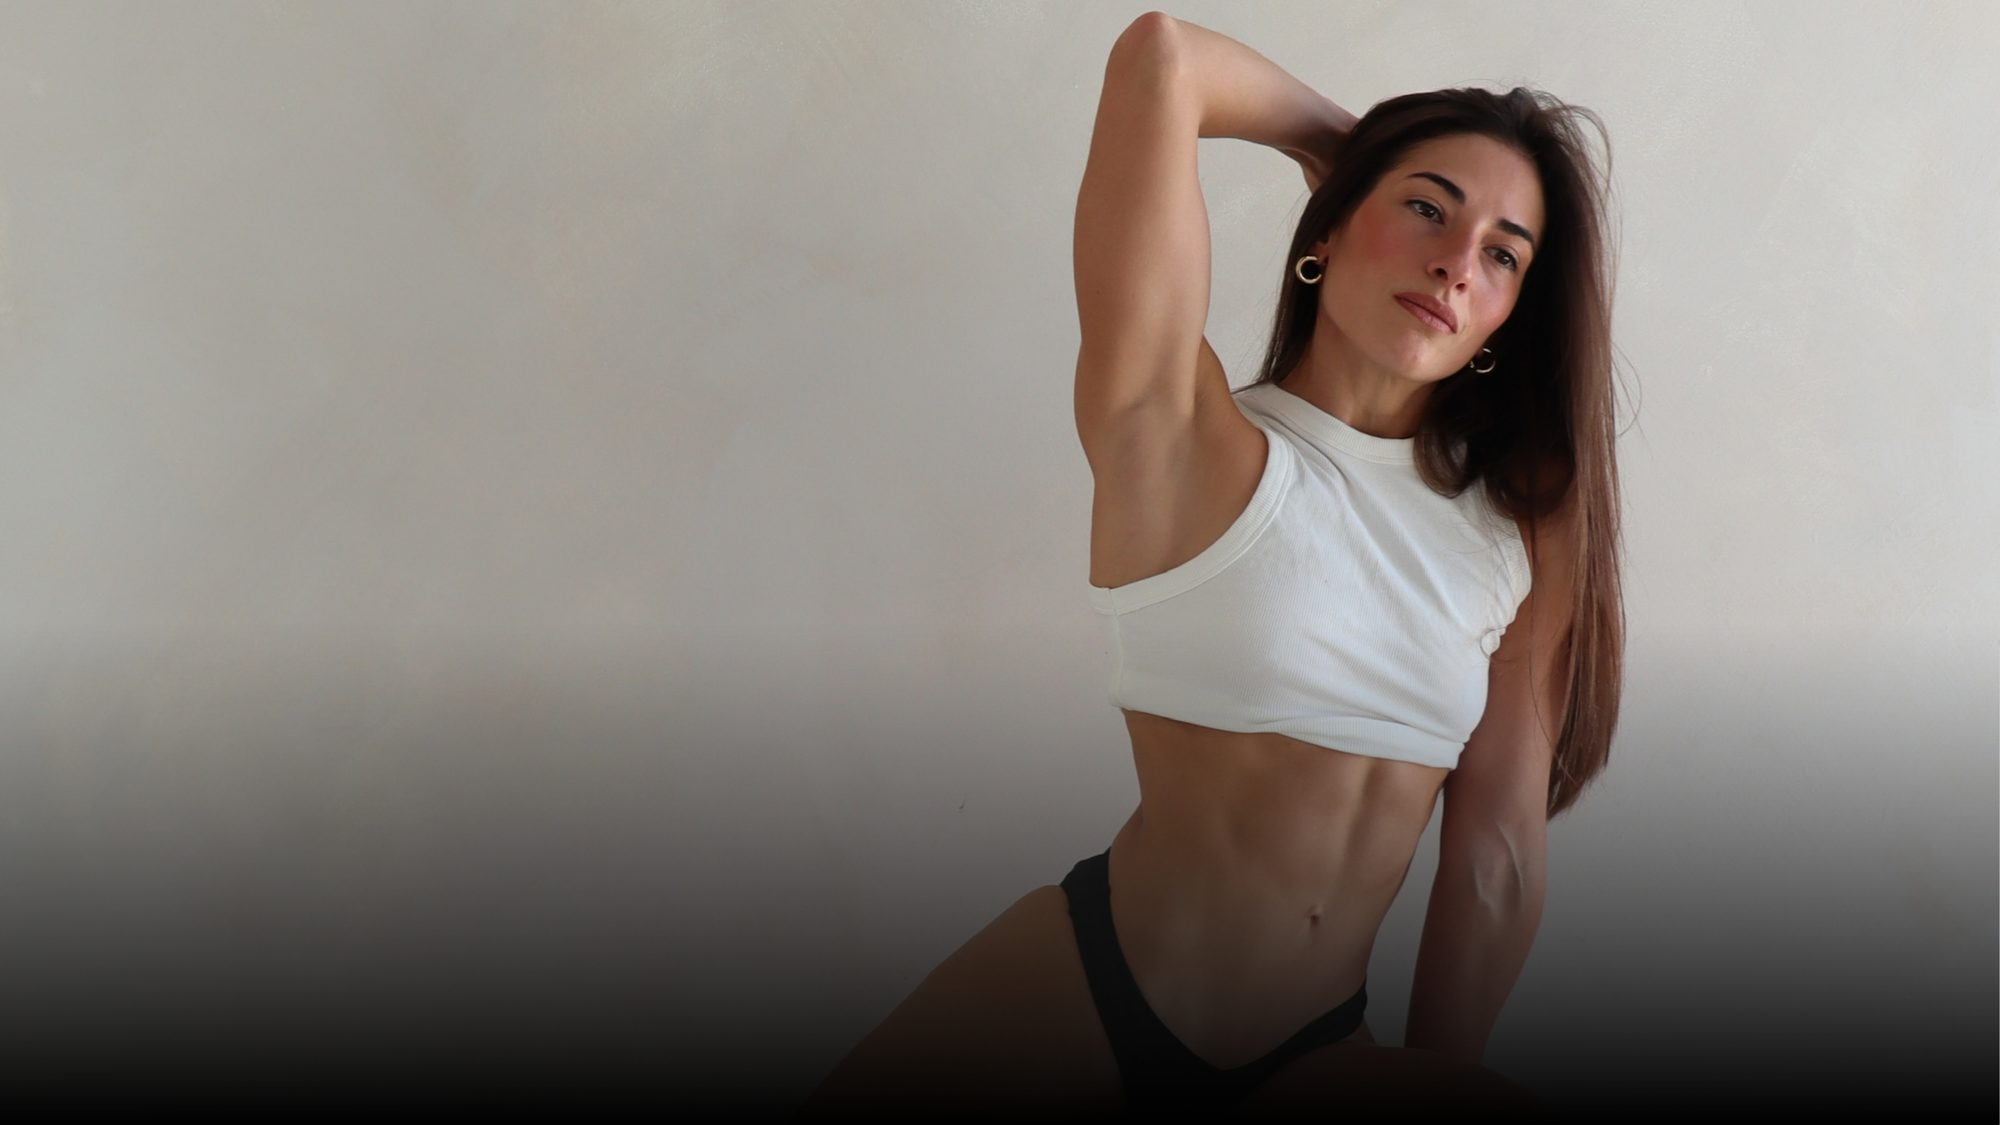
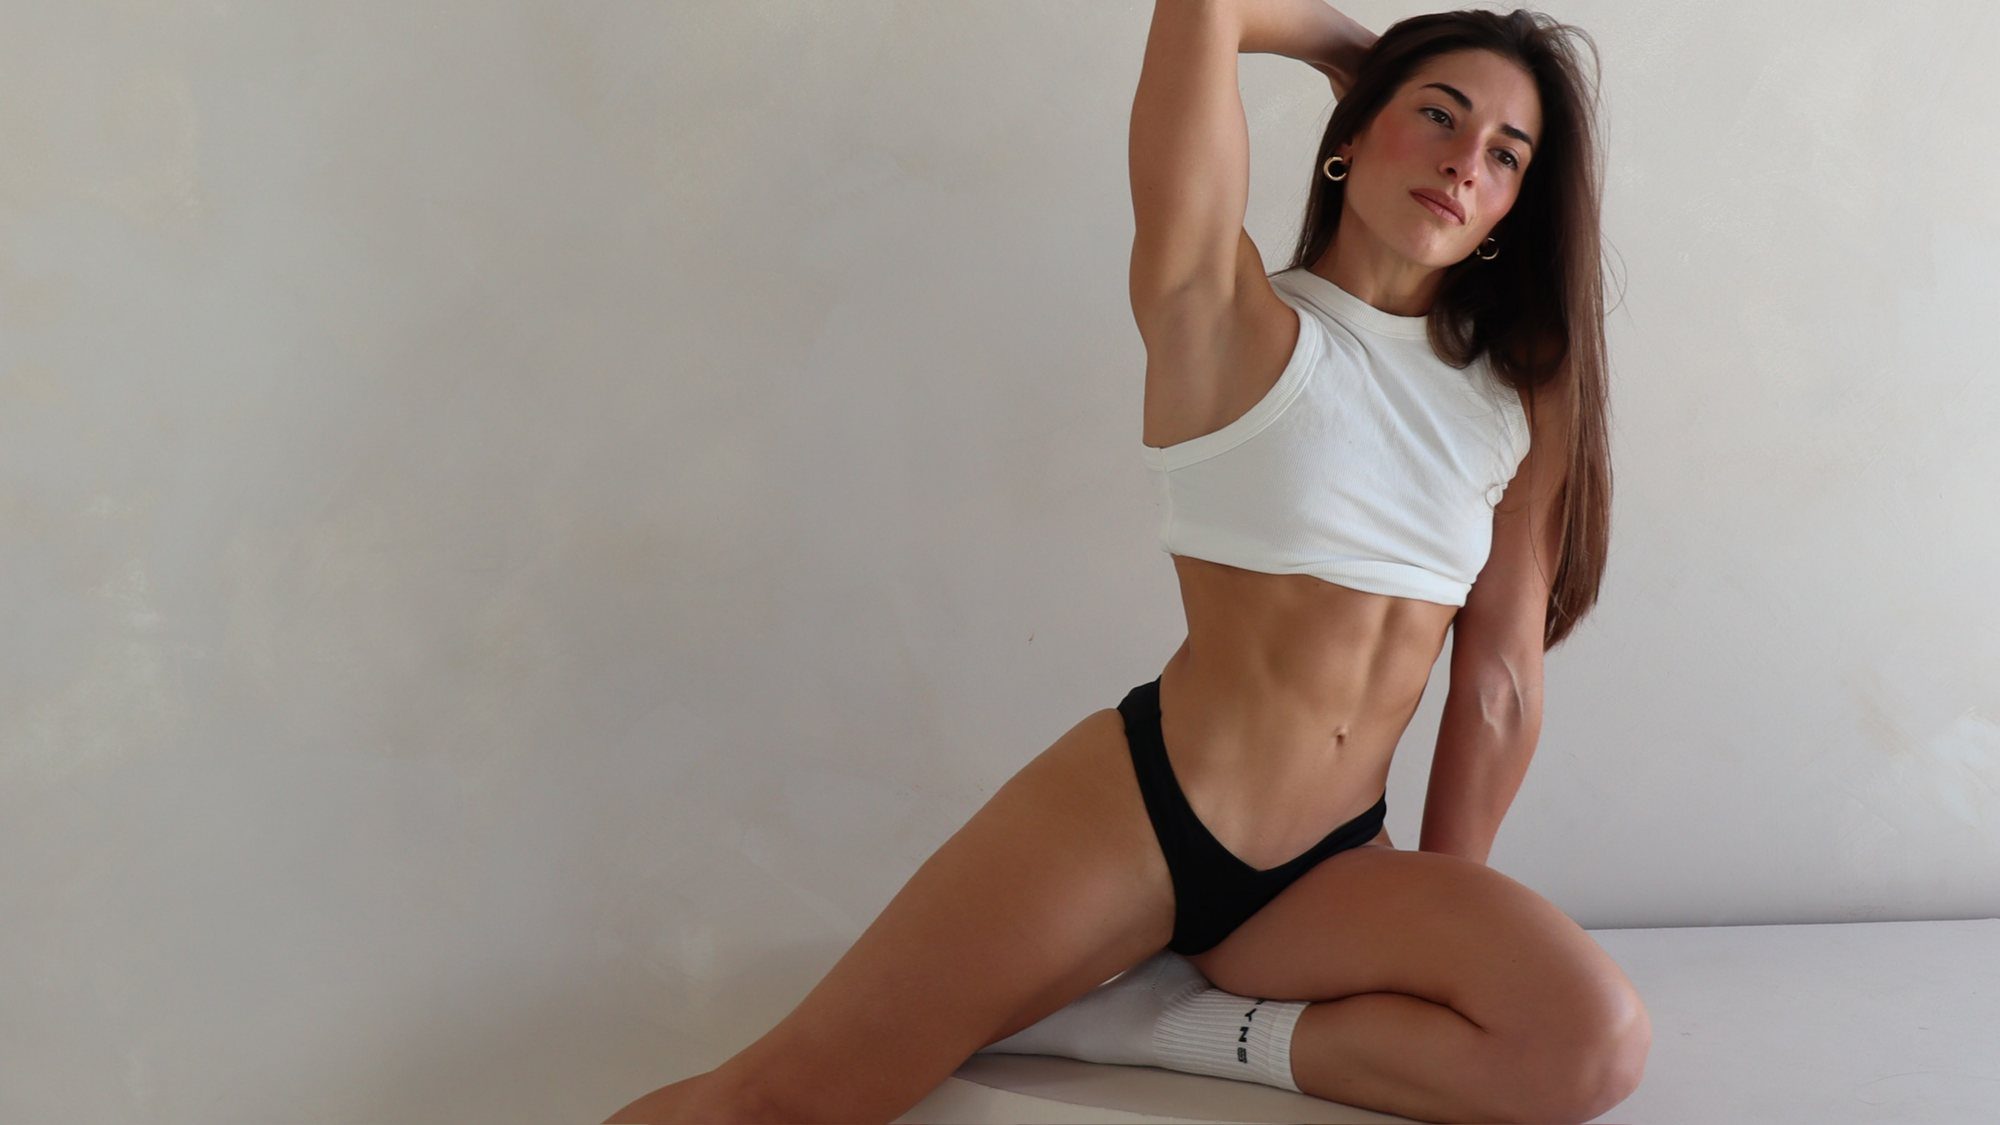
Heroes sin doble degradado, seccion negra bajo el hero de programa y hero de BuildFam a tamano real

diff --git a/dist/programa/build-shred/index.html b/dist/programa/build-shred/index.html
@@ -33,7 +33,7 @@
 <section class="hero full"><picture class="media"><source media="(max-width:767px)" srcset="/assets/img/hero-programa-build-shred-movil.jpg"><img src="/assets/img/hero-programa-build-shred.jpg" alt="Build &amp; Shred" loading="lazy" style="object-position:center 18%"></picture>
   <div class="hero-in"><p class="eyebrow">Disponible ahora</p><h1>Build &amp; Shred</h1><p class="sub">Tren inferior · Fuerza y resistencia</p></div>
 </section>
-<section class="section"><div class="wrap inside">
+<section class="section ink"><div class="wrap inside">
   <div class="trio"><div class="phone"><div class="screen"><div class="sbar"></div><div class="scard"><div class="srow" style="width:60%"></div><div class="srow" style="width:80%"></div><div class="srow" style="width:45%"></div></div><div class="scard fill" style="flex:1.4"></div></div></div><div class="phone"><div class="screen"><div class="sbar" style="width:52%"></div><div class="scard fill" style="flex:2"></div><div class="scard"><div class="srow" style="width:70%"></div><div class="srow" style="width:40%"></div></div></div></div><div class="phone"><div class="screen"><div class="sbar" style="width:36%"></div><div class="scard fill" style="flex:1.2"></div><div class="scard"><div class="srow" style="width:66%"></div><div class="srow" style="width:82%"></div><div class="srow" style="width:48%"></div></div></div></div></div>
   <div>
     <p class="kicker">Build &amp; Shred</p><h2>Dentro del programa</h2>

diff --git a/dist/programa/build-sculpt/index.html b/dist/programa/build-sculpt/index.html
@@ -33,7 +33,7 @@
 <section class="hero full"><picture class="media"><source media="(max-width:767px)" srcset="/assets/img/hero-programa-build-sculpt-movil.jpg"><img src="/assets/img/hero-programa-build-sculpt.jpg" alt="Build &amp; Sculpt" loading="lazy" style="object-position:center 18%"></picture>
   <div class="hero-in"><p class="eyebrow">Disponible ahora</p><h1>Build &amp; Sculpt</h1><p class="sub">Tren superior · Definición</p></div>
 </section>
-<section class="section"><div class="wrap inside">
+<section class="section ink"><div class="wrap inside">
   <div class="trio"><div class="phone"><div class="screen"><div class="sbar"></div><div class="scard"><div class="srow" style="width:60%"></div><div class="srow" style="width:80%"></div><div class="srow" style="width:45%"></div></div><div class="scard fill" style="flex:1.4"></div></div></div><div class="phone"><div class="screen"><div class="sbar" style="width:52%"></div><div class="scard fill" style="flex:2"></div><div class="scard"><div class="srow" style="width:70%"></div><div class="srow" style="width:40%"></div></div></div></div><div class="phone"><div class="screen"><div class="sbar" style="width:36%"></div><div class="scard fill" style="flex:1.2"></div><div class="scard"><div class="srow" style="width:66%"></div><div class="srow" style="width:82%"></div><div class="srow" style="width:48%"></div></div></div></div></div>
   <div>
     <p class="kicker">Build &amp; Sculpt</p><h2>Dentro del programa</h2>

diff --git a/dist/programa/buildxpress/index.html b/dist/programa/buildxpress/index.html
@@ -33,7 +33,7 @@
 <section class="hero full"><picture class="media"><source media="(max-width:767px)" srcset="/assets/img/hero-programa-buildxpress-movil.jpg"><img src="/assets/img/hero-programa-buildxpress.jpg" alt="BuildXpress" loading="lazy" style="object-position:center 18%"></picture>
   <div class="hero-in"><p class="eyebrow">Disponible ahora</p><h1>BuildXpress</h1><p class="sub">45–50 minutos · Cuerpo completo</p></div>
 </section>
-<section class="section"><div class="wrap inside">
+<section class="section ink"><div class="wrap inside">
   <div class="trio"><div class="phone"><div class="screen"><div class="sbar"></div><div class="scard"><div class="srow" style="width:60%"></div><div class="srow" style="width:80%"></div><div class="srow" style="width:45%"></div></div><div class="scard fill" style="flex:1.4"></div></div></div><div class="phone"><div class="screen"><div class="sbar" style="width:52%"></div><div class="scard fill" style="flex:2"></div><div class="scard"><div class="srow" style="width:70%"></div><div class="srow" style="width:40%"></div></div></div></div><div class="phone"><div class="screen"><div class="sbar" style="width:36%"></div><div class="scard fill" style="flex:1.2"></div><div class="scard"><div class="srow" style="width:66%"></div><div class="srow" style="width:82%"></div><div class="srow" style="width:48%"></div></div></div></div></div>
   <div>
     <p class="kicker">BuildXpress</p><h2>Dentro del programa</h2>

diff --git a/dist/programa/hyroxready/index.html b/dist/programa/hyroxready/index.html
@@ -33,7 +33,7 @@
 <section class="hero full"><picture class="media"><source media="(max-width:767px)" srcset="/assets/img/hero-programa-hyroxready-movil.jpg"><img src="/assets/img/hero-programa-hyroxready.jpg" alt="HyroxReady" loading="lazy" style="object-position:center 18%"></picture>
   <div class="hero-in"><p class="eyebrow">Próximamente</p><h1>HyroxReady</h1><p class="sub">Competencia · Fuerza y resistencia</p></div>
 </section>
-<section class="section"><div class="wrap inside">
+<section class="section ink"><div class="wrap inside">
   <div class="trio"><div class="phone"><div class="screen"><div class="sbar"></div><div class="scard"><div class="srow" style="width:60%"></div><div class="srow" style="width:80%"></div><div class="srow" style="width:45%"></div></div><div class="scard fill" style="flex:1.4"></div></div></div><div class="phone"><div class="screen"><div class="sbar" style="width:52%"></div><div class="scard fill" style="flex:2"></div><div class="scard"><div class="srow" style="width:70%"></div><div class="srow" style="width:40%"></div></div></div></div><div class="phone"><div class="screen"><div class="sbar" style="width:36%"></div><div class="scard fill" style="flex:1.2"></div><div class="scard"><div class="srow" style="width:66%"></div><div class="srow" style="width:82%"></div><div class="srow" style="width:48%"></div></div></div></div></div>
   <div>
     <p class="kicker">HyroxReady</p><h2>Dentro del programa</h2>

diff --git a/_mockup.html b/_mockup.html
@@ -204,6 +204,17 @@ h1,h2,h3,h4{font-family:var(--display);margin:0;font-weight:600;text-wrap:balanc
 .compare .knob{position:absolute;top:50%;left:50%;transform:translate(-50%,-50%);width:44px;height:44px;border-radius:50%;background:#fff;display:grid;place-items:center;box-shadow:0 4px 14px rgba(0,0,0,.28);font-size:12px;color:var(--ink);letter-spacing:.1em}
 .compare-hint{font-size:11px;letter-spacing:.16em;text-transform:uppercase;color:var(--muted);text-align:center;margin-top:16px}
 .section.ink .compare-hint{color:rgba(255,255,255,.55)}
+/* ---------- bloque "dentro del programa" sobre negro ---------- */
+.section.ink .inside .kicker{color:rgba(255,255,255,.6)}
+.section.ink .inside h2{color:#fff}
+.section.ink .inside p{color:rgba(255,255,255,.72)}
+.section.ink .badge{background:rgba(255,255,255,.08);border-color:rgba(255,255,255,.2);color:#fff}
+.section.ink .badge.k{background:#fff;color:var(--ink);border-color:#fff}
+.section.ink .ver{border-color:rgba(255,255,255,.22);color:#fff}
+.section.ink .ver.now{background:#fff;color:var(--ink);border-color:#fff}
+.section.ink .inside h4{color:#fff}
+.section.ink .inside .btn{background:#fff;color:var(--ink);border-color:#fff}
+.section.ink .inside .btn:hover{background:transparent;color:#fff}
 
 /* ---------- program detail ---------- */
 .inside{display:grid;grid-template-columns:1fr 1fr;gap:64px;align-items:center}

diff --git a/assets/styles.css b/assets/styles.css
@@ -199,6 +199,17 @@ h1,h2,h3,h4{font-family:var(--display);margin:0;font-weight:600;text-wrap:balanc
 .compare .knob{position:absolute;top:50%;left:50%;transform:translate(-50%,-50%);width:44px;height:44px;border-radius:50%;background:#fff;display:grid;place-items:center;box-shadow:0 4px 14px rgba(0,0,0,.28);font-size:12px;color:var(--ink);letter-spacing:.1em}
 .compare-hint{font-size:11px;letter-spacing:.16em;text-transform:uppercase;color:var(--muted);text-align:center;margin-top:16px}
 .section.ink .compare-hint{color:rgba(255,255,255,.55)}
+/* ---------- bloque "dentro del programa" sobre negro ---------- */
+.section.ink .inside .kicker{color:rgba(255,255,255,.6)}
+.section.ink .inside h2{color:#fff}
+.section.ink .inside p{color:rgba(255,255,255,.72)}
+.section.ink .badge{background:rgba(255,255,255,.08);border-color:rgba(255,255,255,.2);color:#fff}
+.section.ink .badge.k{background:#fff;color:var(--ink);border-color:#fff}
+.section.ink .ver{border-color:rgba(255,255,255,.22);color:#fff}
+.section.ink .ver.now{background:#fff;color:var(--ink);border-color:#fff}
+.section.ink .inside h4{color:#fff}
+.section.ink .inside .btn{background:#fff;color:var(--ink);border-color:#fff}
+.section.ink .inside .btn:hover{background:transparent;color:#fff}
 
 /* ---------- program detail ---------- */
 .inside{display:grid;grid-template-columns:1fr 1fr;gap:64px;align-items:center}

diff --git a/dist/assets/styles.css b/dist/assets/styles.css
@@ -199,6 +199,17 @@ h1,h2,h3,h4{font-family:var(--display);margin:0;font-weight:600;text-wrap:balanc
 .compare .knob{position:absolute;top:50%;left:50%;transform:translate(-50%,-50%);width:44px;height:44px;border-radius:50%;background:#fff;display:grid;place-items:center;box-shadow:0 4px 14px rgba(0,0,0,.28);font-size:12px;color:var(--ink);letter-spacing:.1em}
 .compare-hint{font-size:11px;letter-spacing:.16em;text-transform:uppercase;color:var(--muted);text-align:center;margin-top:16px}
 .section.ink .compare-hint{color:rgba(255,255,255,.55)}
+/* ---------- bloque "dentro del programa" sobre negro ---------- */
+.section.ink .inside .kicker{color:rgba(255,255,255,.6)}
+.section.ink .inside h2{color:#fff}
+.section.ink .inside p{color:rgba(255,255,255,.72)}
+.section.ink .badge{background:rgba(255,255,255,.08);border-color:rgba(255,255,255,.2);color:#fff}
+.section.ink .badge.k{background:#fff;color:var(--ink);border-color:#fff}
+.section.ink .ver{border-color:rgba(255,255,255,.22);color:#fff}
+.section.ink .ver.now{background:#fff;color:var(--ink);border-color:#fff}
+.section.ink .inside h4{color:#fff}
+.section.ink .inside .btn{background:#fff;color:var(--ink);border-color:#fff}
+.section.ink .inside .btn:hover{background:transparent;color:#fff}
 
 /* ---------- program detail ---------- */
 .inside{display:grid;grid-template-columns:1fr 1fr;gap:64px;align-items:center}

diff --git a/dist/programa/buildginner/index.html b/dist/programa/buildginner/index.html
@@ -33,7 +33,7 @@
 <section class="hero full"><div class="media dark"><span class="tag">BuildGinner</span></div>
   <div class="hero-in"><p class="eyebrow">Próximamente</p><h1>BuildGinner</h1><p class="sub">Principiantes · Técnica y bases</p></div>
 </section>
-<section class="section"><div class="wrap inside">
+<section class="section ink"><div class="wrap inside">
   <div class="trio"><div class="phone"><div class="screen"><div class="sbar"></div><div class="scard"><div class="srow" style="width:60%"></div><div class="srow" style="width:80%"></div><div class="srow" style="width:45%"></div></div><div class="scard fill" style="flex:1.4"></div></div></div><div class="phone"><div class="screen"><div class="sbar" style="width:52%"></div><div class="scard fill" style="flex:2"></div><div class="scard"><div class="srow" style="width:70%"></div><div class="srow" style="width:40%"></div></div></div></div><div class="phone"><div class="screen"><div class="sbar" style="width:36%"></div><div class="scard fill" style="flex:1.2"></div><div class="scard"><div class="srow" style="width:66%"></div><div class="srow" style="width:82%"></div><div class="srow" style="width:48%"></div></div></div></div></div>
   <div>
     <p class="kicker">BuildGinner</p><h2>Dentro del programa</h2>

diff --git a/dist/programa/buildonthego/index.html b/dist/programa/buildonthego/index.html
@@ -33,7 +33,7 @@
 <section class="hero full"><div class="media dark"><span class="tag">BuildOnTheGo</span></div>
   <div class="hero-in"><p class="eyebrow">Próximamente</p><h1>BuildOnTheGo</h1><p class="sub">Sin equipo · Peso corporal</p></div>
 </section>
-<section class="section"><div class="wrap inside">
+<section class="section ink"><div class="wrap inside">
   <div class="trio"><div class="phone"><div class="screen"><div class="sbar"></div><div class="scard"><div class="srow" style="width:60%"></div><div class="srow" style="width:80%"></div><div class="srow" style="width:45%"></div></div><div class="scard fill" style="flex:1.4"></div></div></div><div class="phone"><div class="screen"><div class="sbar" style="width:52%"></div><div class="scard fill" style="flex:2"></div><div class="scard"><div class="srow" style="width:70%"></div><div class="srow" style="width:40%"></div></div></div></div><div class="phone"><div class="screen"><div class="sbar" style="width:36%"></div><div class="scard fill" style="flex:1.2"></div><div class="scard"><div class="srow" style="width:66%"></div><div class="srow" style="width:82%"></div><div class="srow" style="width:48%"></div></div></div></div></div>
   <div>
     <p class="kicker">BuildOnTheGo</p><h2>Dentro del programa</h2>

diff --git a/dist/comunidad/index.html b/dist/comunidad/index.html
@@ -30,7 +30,7 @@
   </div>
 </div></header>
 <main>
-<section class="hero" style="min-height:320px;padding:80px 24px"><picture class="media"><img src="/assets/img/hero-comunidad.jpg" alt="La comunidad BuildFam" loading="lazy" style="object-position:center 35%"></picture>
+<section class="hero full"><picture class="media"><source media="(max-width:767px)" srcset="/assets/img/hero-comunidad-movil.jpg"><img src="/assets/img/hero-comunidad.jpg" alt="La comunidad BuildFam" loading="lazy" style="object-position:center 28%"></picture>
   <div class="hero-in"><p class="eyebrow">BuildFam</p><h1>No entrenas sola</h1>
   <p class="sub">Comparte tu progreso y conecta con BuildFam.</p></div>
 </section>

diff --git a/build.py b/build.py
@@ -433,7 +433,7 @@ def page_programa(p):
     return """<section class="hero full">%s
   <div class="hero-in"><p class="eyebrow">%s</p><h1>%s</h1><p class="sub">%s</p></div>
 </section>
-<section class="section"><div class="wrap inside">
+<section class="section ink"><div class="wrap inside">
   <div class="trio">%s%s%s</div>
   <div>
     <p class="kicker">%s</p><h2>Dentro del programa</h2>
@@ -547,7 +547,7 @@ def page_nutricion():
          vistazo(), member_band(False))
 
 def page_comunidad():
-    return """<section class="hero" style="min-height:320px;padding:80px 24px">%s
+    return """<section class="hero full">%s
   <div class="hero-in"><p class="eyebrow">BuildFam</p><h1>No entrenas sola</h1>
   <p class="sub">Comparte tu progreso y conecta con BuildFam.</p></div>
 </section>
@@ -564,7 +564,7 @@ def page_comunidad():
 </div></section>
 <section class="section wash"><div class="wrap">%s
   <div class="center" style="margin-top:44px"><a href="/crear-cuenta/" class="btn wide">Empieza %d días gratis</a></div>
-</div></section>""" % (media("La comunidad BuildFam", True, "hero-comunidad", "center 35%"), phone("chat2"), phone("chat"), phone("chat3"),
+</div></section>""" % (media("La comunidad BuildFam", True, "hero-comunidad", "center 28%"), phone("chat2"), phone("chat"), phone("chat3"),
                        esc(S["coach"]), reviews_row(), P["prueba_dias"])
 
 def page_crear_cuenta():
